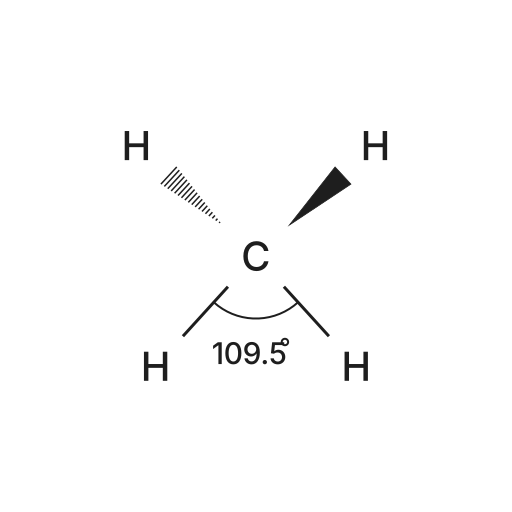
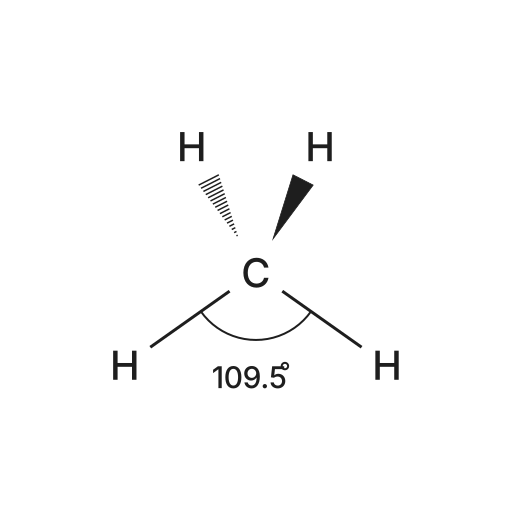
Metano tetraédrico con convención de libro: 109.5° reales entre los H del plano, cuña y discontinua simétricas
Claude-Session: https://claude.ai/code/session_01XUsvrxbZdnm24SFBJDG1fW

diff --git a/scripts/gen_metano.py b/scripts/gen_metano.py
@@ -23,6 +23,8 @@ OUT = ROOT / "arte" / "originales" / "asset_metano_tetraedrico.png"
 SIZE = 512
 INK = (0x1E / 255, 0x1E / 255, 0x1E / 255)
 SEED = 0x5EED
+# Semiángulo entre la cuña y la línea discontinua (convención gráfica).
+SPLAY_DEG = 27
 # Fuente para "C", "H" y el rótulo del ángulo (incluye el signo de grado).
 FONT = Path("/usr/share/fonts/opentype/inter/Inter-Medium.otf")
 
@@ -38,25 +40,29 @@ def conformer_3d() -> tuple[Chem.Mol, np.ndarray]:
 
 
 def oriented_2d(xyz: np.ndarray) -> tuple[np.ndarray, int, int]:
-    """Rota el tetraedro para que H1 y H2 queden en el plano del papel (z = 0)
-    y devuelve la proyección, el índice del H al frente y el del H atrás."""
+    """Convención de libro: los dos H del plano del papel se proyectan tal cual
+    (su ángulo H-C-H de 109.5° queda real sobre el papel) y los otros dos, que
+    en una proyección exacta caerían en el mismo punto, se dibujan juntos del
+    otro lado, separados de forma simétrica respecto a la bisectriz, uno con
+    cuña (frente) y otro con línea discontinua (atrás). Devuelve la proyección,
+    el índice del H del frente y el del H de atrás."""
     h = [1, 2, 3, 4]
-    # Base ortonormal: e1 bisectriz de H1 y H2 (apunta abajo), e2 en el plano H1-C-H2.
+    # Base ortonormal: e1 bisectriz de H1 y H2, e2 en el plano H1-C-H2, e3 normal al papel.
     u1, u2 = xyz[h[0]] / np.linalg.norm(xyz[h[0]]), xyz[h[1]] / np.linalg.norm(xyz[h[1]])
     e1 = (u1 + u2) / np.linalg.norm(u1 + u2)
     e2 = (u1 - u2) / np.linalg.norm(u1 - u2)
     e3 = np.cross(e1, e2)
-    rot = np.vstack([e2, -e1, e3])  # x = e2 (horizontal), y = -e1 (bisectriz hacia arriba), z = e3
+    rot = np.vstack([e2, -e1, e3])  # x horizontal, y = -bisectriz (H1 y H2 abajo), z hacia el lector
     p = xyz @ rot.T
-    # Giro de 50° alrededor del eje vertical: si H3 y H4 fueran simétricos
-    # respecto al plano del papel se proyectarían en el mismo punto. Así el H
-    # del frente y el de atrás quedan separados, como en el dibujo de libro.
-    th = np.radians(50)
-    tilt = np.array([[np.cos(th), 0, np.sin(th)], [0, 1, 0], [-np.sin(th), 0, np.cos(th)]])
-    p = p @ tilt.T
     front = max(h[2:], key=lambda i: p[i][2])
     back = min(h[2:], key=lambda i: p[i][2])
-    # Los dos H del plano quedan abajo, abiertos; los otros dos arriba, uno al frente y uno atrás.
+    # Cuña y línea discontinua: a ±SPLAY de la bisectriz (hacia arriba), algo
+    # más cortas para sugerir profundidad. Es convención gráfica, no proyección.
+    bond = float(np.linalg.norm(xyz[h[0]]))
+    length = 0.88 * bond
+    delta = np.radians(SPLAY_DEG)
+    p[front, :2] = (length * np.sin(delta), length * np.cos(delta))
+    p[back, :2] = (-length * np.sin(delta), length * np.cos(delta))
     return p[:, :2], front, back
 
 

diff --git a/DECISIONES.md b/DECISIONES.md
@@ -86,7 +86,7 @@ Registro de los supuestos tomados durante la construcción, en el orden en que a
 1. **Paleta como tokens.** Los colores nuevos del autor entraron como roles del tema (`background`, `primary_selected_bg`, `primary_halo`, `mol_highlight`, `surface_warm`, `progress_track`, `block_strong`, `block_bright`, `block_mid`, `block_soft`, `block_pale`, `illustration_bg`), nunca como valores en componentes. `control_border` pasó de `#808995` a `#5A6473` porque el anterior daba 3.08:1 sobre el fondo `#E3F1FB` y menos de 3:1 sobre los pasteles; `line` pasó a `#CFDDE8` para que los divisores se vean sobre el fondo azulado. El test de contraste agrega tinta sobre cada pastel (4.5:1) y bordes y foco sobre pastel (3:1). Sobre `#A8D0EF`, `#99C3E4`, `#8FC9FF` y `#A2D2FF` solo va texto en tinta; `text_secondary` da 3.7 a 4.3:1 ahí y no se usa. El tema oscuro deriva los mismos roles con pasteles oscurecidos (`#1C3045` a `#24445F`) y `control_border` `#93A0AE`.
 2. **`illustration_bg`.** El metano tetraédrico es un PNG con tinta fija `#1E1E1E`; sobre la superficie oscura del tema oscuro desaparecía. Las ilustraciones con tinta fija se apoyan en el rol `illustration_bg`, blanco en ambos temas (papel), en lugar de `surface`.
 3. **Arte: originales y derivados.** `arte/originales/` es la única fuente de verdad. `scripts/optimize-art.ts` (sharp 0.34.5, dependencia de desarrollo con binarios precompilados, unos 10 MB) genera `assets/images/<id>.png` a 512 px y `<id>@256.png` a 256 px, sin recortar ni deformar, y retira lo que no tenga original. Se eligió cuantizar a paleta de 256 colores con libimagequant a calidad máxima: la diferencia media medida contra la versión sin pérdida es de 0.5 a 1.6 unidades de 255 por canal (imperceptible en arte plano) y sin eso las ilustraciones de 512 px pesan de 150 a 290 KB, por encima del límite de 150 KB; el arte servido pesa 883 KB en total, dentro del presupuesto de 1.5 MB. Los derivados se versionan para que un clon funcione sin correr nada, y el script corre antes de `dev`, `build` y `test` y en el workflow, de modo que subir un original desde la web de GitHub basta para publicar la ilustración nueva. El hash de cada original queda en `assets/images/.sources.json` para no regenerar lo que no cambió.
-4. **Metano tetraédrico.** `scripts/gen_metano.py` genera el conformero con ETKDGv3 (semilla fija) y MMFF, orienta el tetraedro con dos H en el plano del papel, lo gira 50° alrededor del eje vertical (sin el giro, el H del frente y el de atrás se proyectan en el mismo punto) y dibuja con `MolDraw2DCairo` asignando cuña y línea discontinua a mano (`prepareMolsBeforeDrawing = False`). El único texto es "109.5°"; como `DrawString` solo acepta ASCII, el signo de grado se dibuja como un círculo pequeño. La fuente es Inter (OTF disponible en el sistema de build; IBM Plex solo está en woff2).
+4. **Metano tetraédrico.** `scripts/gen_metano.py` genera el conformero con ETKDGv3 (semilla fija) y MMFF y lo orienta con dos H exactamente en el plano del papel, de modo que su ángulo H-C-H de 109.5° es real sobre el papel y es el único que se rotula. Los otros dos H, que en una proyección exacta caen en el mismo punto, se dibujan por convención de libro juntos del otro lado, simétricos respecto a la bisectriz (±27°) y algo más cortos, uno con cuña (el de z positiva) y otro con línea discontinua. Dibuja con `MolDraw2DCairo` asignando cuña y línea discontinua a mano (`prepareMolsBeforeDrawing = False`). Una primera versión giraba el tetraedro 50° para separar cuña y discontinua, pero eso sacaba del plano a los H de línea normal y el ángulo rotulado se dibujaba de unos 85°; se corrigió. El único texto es "109.5°"; como `DrawString` solo acepta ASCII, el signo de grado se dibuja como un círculo pequeño. La fuente es Inter (OTF disponible en el sistema de build; IBM Plex solo está en woff2).
 5. **Dónde aparece Carbo.** Idle en la bienvenida (200 px sobre bloque `block_pale`) y en el estado vacío de repaso; happy en el encabezado cálido del resultado; think en el pie del diagnóstico, en el resultado del diagnóstico, en la pista y en la página inexistente; sad a 40 px junto al mensaje de `feedback_template` al fallar. En `chat_complete` sigue como el personaje que habla (lo pide el seed). Nada permanente.
 6. **Íconos de mundo.** El mapa muestra `icon_asset_id` de cada mundo a 64 px (también en los mundos "Próximamente", atenuados) y el encabezado de la ruta a 72 px sobre banda `block_soft`; si un mundo no tiene asset, `WorldIcon` cae a la miniatura molecular anterior. La moneda, el cofre y el protector de racha del seed se usan en Recompensas a 40 y 56 px; en la barra de estadísticas (16 px), la ruta (44 px) y las pestañas se conservan los íconos de línea, porque por debajo de 40 px el arte no se lee.
 7. **Textos de UI antes que el contenido.** `bootstrap` carga `ui_es.json` y lo registra en el store antes de pedir los paquetes, para que el error de arranque tenga título, explicación, botón y detalle técnico plegado. `LocalizationService` sigue fallando si una clave de UI choca con una de contenido, en cualquier orden de carga.

diff --git a/CAMBIOS_PULIDO.md b/CAMBIOS_PULIDO.md
@@ -5,7 +5,7 @@ Qué cambió respecto al cierre del hito 6, qué quedó pendiente y por qué. El
 ## Qué cambió
 
 1. **Paleta del autor como tokens del tema** (`public/content/packs/web/themes.json`). Fondo `#E3F1FB`, superficies `#FFFFFF`, superficie cálida `#FFF9E6`, seleccionado y halo `#C1E4F3`, pista de progreso `#A8D0EF`, resaltado de estructuras `#C1E4F3`, cinco bloques pastel planos, borde de control `#5A6473` (3:1 o más sobre todos los pasteles) y papel blanco para ilustraciones. El tema oscuro deriva los mismos roles. El test de contraste (`src/services/theme.test.ts`) pasó de 25 a 51 pares por tema.
-2. **Arte del autor.** Los 12 originales y `prompts_generacion.txt` viven en `arte/`. `scripts/optimize-art.ts` genera `assets/images/` (512 px y 256 px, PNG con alfa, 883 KB en total, máximo 65 KB por archivo) antes de `dev`, `build` y `test` y en el workflow de despliegue. `scripts/gen_metano.py` dibuja `asset_metano_tetraedrico` con RDKit (ETKDG + MMFF, cuñas y líneas discontinuas, rótulo "109.5°").
+2. **Arte del autor.** Los 12 originales y `prompts_generacion.txt` viven en `arte/`. `scripts/optimize-art.ts` genera `assets/images/` (512 px y 256 px, PNG con alfa, 883 KB en total, máximo 65 KB por archivo) antes de `dev`, `build` y `test` y en el workflow de despliegue. `scripts/gen_metano.py` dibuja `asset_metano_tetraedrico` con RDKit (ETKDG + MMFF) con la convención de libro: los dos H del plano con línea normal y 109.5° reales sobre el papel (el único ángulo rotulado), y cuña y línea discontinua juntas del otro lado, simétricas respecto a la bisectriz.
 3. **Arte conectado donde el seed lo asigna.** Carbo idle en la bienvenida y en el estado vacío de repaso, happy en el resultado, think en pistas, diagnóstico y página inexistente, sad pequeño al fallar; íconos de mundo en el mapa (64 px) y en la banda de la ruta (72 px); moneda, cofre y protector de racha en Recompensas; metano en la intro de l_sp3. Por debajo de 40 px se conservan los íconos de línea.
 4. **Superficies cálidas y bloques planos.** Bienvenida, encabezado del resultado y filas de cofres y tienda sobre `#FFF9E6`; banda pastel en el encabezado de cada mundo; bloque pastel detrás de Carbo en la bienvenida. Sin degradados, marcos ni sombras.
 5. **Estados.** Carga inicial con la marca completa; error de arranque con título, explicación, reintento y detalle técnico plegado (los textos de UI se cargan antes que el contenido); página inexistente con navegación, Carbo y salidas; aviso de carga del visor 3D.
